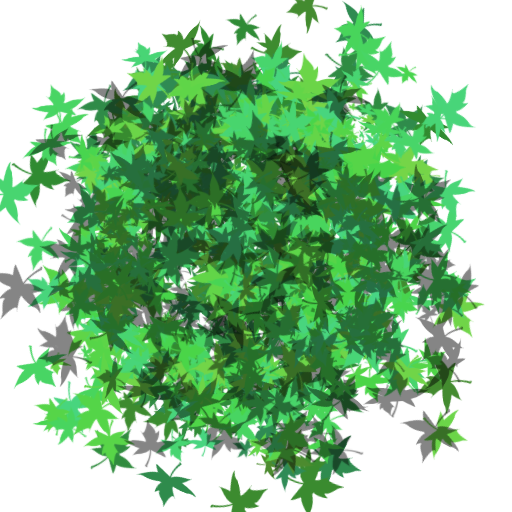
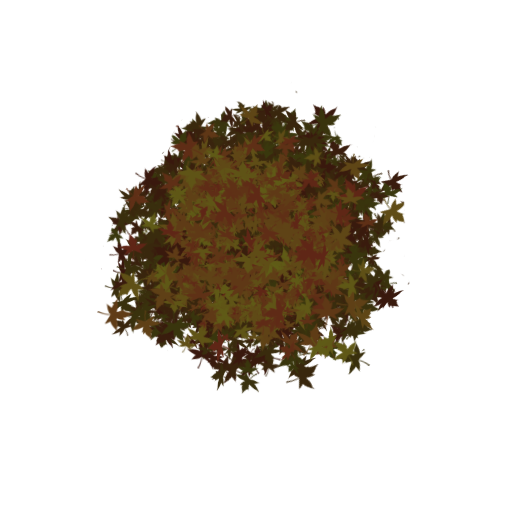
Trees 4.0
living trees have 3 variations of green leaves
dying trees have 3 variations of brown ones

diff --git a/src/math/tree_generator.h b/src/math/tree_generator.h
@@ -21,7 +21,7 @@ namespace octet
 
 		//Declare all variables here
 		int iterations, masterIterations, maxIterations, ignoreSize, numberOfBranches, branchSubSections;
-		float height, width, depth, branchRadius, angle, leafWidth, scale;
+		float height, width, depth, branchRadius, angle, leafWidth, scale, leafTexture;
 		string originalAxiom, ignore;
 		bool done;
 
@@ -69,10 +69,10 @@ namespace octet
 			glGenBuffers(1, &nbo);
 			glGenBuffers(1, &cbo);
 
-			GLuint textures[2];
+			GLuint textures[7];
 			//yoloswaggins
 			//Generate a buffer for the bark texture
-			glGenTextures(2, textures);
+			glGenTextures(7, textures);
 			glEnable(GL_TEXTURE_2D);
 			glActiveTexture(GL_TEXTURE0);
 			glBindTexture(GL_TEXTURE_2D, textures[0]);
@@ -88,10 +88,79 @@ namespace octet
 			glTexParameteri(GL_TEXTURE_2D, GL_TEXTURE_MIN_FILTER, GL_LINEAR);
 			glTexParameteri(GL_TEXTURE_2D, GL_TEXTURE_MAG_FILTER, GL_LINEAR);
 
+			//Alive leaves
+
 			glActiveTexture(GL_TEXTURE1);
 			glBindTexture(GL_TEXTURE_2D, textures[1]);
 
-			image = SOIL_load_image("../../assets/thronecraft/leafs.png", &width, &height, 0, SOIL_LOAD_RGBA);
+			image = SOIL_load_image("../../assets/thronecraft/leaf0.png", &width, &height, 0, SOIL_LOAD_RGBA);
+			glTexImage2D(GL_TEXTURE_2D, 0, GL_RGBA, width, height, 0, GL_RGBA, GL_UNSIGNED_BYTE, image);
+
+			SOIL_free_image_data(image);
+
+			glTexParameteri(GL_TEXTURE_2D, GL_TEXTURE_WRAP_S, GL_MIRRORED_REPEAT);
+			glTexParameteri(GL_TEXTURE_2D, GL_TEXTURE_WRAP_T, GL_MIRRORED_REPEAT);
+			glTexParameteri(GL_TEXTURE_2D, GL_TEXTURE_MIN_FILTER, GL_LINEAR);
+			glTexParameteri(GL_TEXTURE_2D, GL_TEXTURE_MAG_FILTER, GL_LINEAR);
+
+			glActiveTexture(GL_TEXTURE2);
+			glBindTexture(GL_TEXTURE_2D, textures[2]);
+
+			image = SOIL_load_image("../../assets/thronecraft/leaf1.png", &width, &height, 0, SOIL_LOAD_RGBA);
+			glTexImage2D(GL_TEXTURE_2D, 0, GL_RGBA, width, height, 0, GL_RGBA, GL_UNSIGNED_BYTE, image);
+
+			SOIL_free_image_data(image);
+
+			glTexParameteri(GL_TEXTURE_2D, GL_TEXTURE_WRAP_S, GL_MIRRORED_REPEAT);
+			glTexParameteri(GL_TEXTURE_2D, GL_TEXTURE_WRAP_T, GL_MIRRORED_REPEAT);
+			glTexParameteri(GL_TEXTURE_2D, GL_TEXTURE_MIN_FILTER, GL_LINEAR);
+			glTexParameteri(GL_TEXTURE_2D, GL_TEXTURE_MAG_FILTER, GL_LINEAR);
+
+			glActiveTexture(GL_TEXTURE3);
+			glBindTexture(GL_TEXTURE_2D, textures[3]);
+
+			image = SOIL_load_image("../../assets/thronecraft/leaf2.png", &width, &height, 0, SOIL_LOAD_RGBA);
+			glTexImage2D(GL_TEXTURE_2D, 0, GL_RGBA, width, height, 0, GL_RGBA, GL_UNSIGNED_BYTE, image);
+
+			SOIL_free_image_data(image);
+
+			glTexParameteri(GL_TEXTURE_2D, GL_TEXTURE_WRAP_S, GL_MIRRORED_REPEAT);
+			glTexParameteri(GL_TEXTURE_2D, GL_TEXTURE_WRAP_T, GL_MIRRORED_REPEAT);
+			glTexParameteri(GL_TEXTURE_2D, GL_TEXTURE_MIN_FILTER, GL_LINEAR);
+			glTexParameteri(GL_TEXTURE_2D, GL_TEXTURE_MAG_FILTER, GL_LINEAR);
+
+			//Dead leaves
+
+			glActiveTexture(GL_TEXTURE4);
+			glBindTexture(GL_TEXTURE_2D, textures[4]);
+
+			image = SOIL_load_image("../../assets/thronecraft/leaf3.png", &width, &height, 0, SOIL_LOAD_RGBA);
+			glTexImage2D(GL_TEXTURE_2D, 0, GL_RGBA, width, height, 0, GL_RGBA, GL_UNSIGNED_BYTE, image);
+
+			SOIL_free_image_data(image);
+
+			glTexParameteri(GL_TEXTURE_2D, GL_TEXTURE_WRAP_S, GL_MIRRORED_REPEAT);
+			glTexParameteri(GL_TEXTURE_2D, GL_TEXTURE_WRAP_T, GL_MIRRORED_REPEAT);
+			glTexParameteri(GL_TEXTURE_2D, GL_TEXTURE_MIN_FILTER, GL_LINEAR);
+			glTexParameteri(GL_TEXTURE_2D, GL_TEXTURE_MAG_FILTER, GL_LINEAR);
+
+			glActiveTexture(GL_TEXTURE5);
+			glBindTexture(GL_TEXTURE_2D, textures[5]);
+
+			image = SOIL_load_image("../../assets/thronecraft/leaf4.png", &width, &height, 0, SOIL_LOAD_RGBA);
+			glTexImage2D(GL_TEXTURE_2D, 0, GL_RGBA, width, height, 0, GL_RGBA, GL_UNSIGNED_BYTE, image);
+
+			SOIL_free_image_data(image);
+
+			glTexParameteri(GL_TEXTURE_2D, GL_TEXTURE_WRAP_S, GL_MIRRORED_REPEAT);
+			glTexParameteri(GL_TEXTURE_2D, GL_TEXTURE_WRAP_T, GL_MIRRORED_REPEAT);
+			glTexParameteri(GL_TEXTURE_2D, GL_TEXTURE_MIN_FILTER, GL_LINEAR);
+			glTexParameteri(GL_TEXTURE_2D, GL_TEXTURE_MAG_FILTER, GL_LINEAR);
+
+			glActiveTexture(GL_TEXTURE6);
+			glBindTexture(GL_TEXTURE_2D, textures[6]);
+
+			image = SOIL_load_image("../../assets/thronecraft/leaf5.png", &width, &height, 0, SOIL_LOAD_RGBA);
 			glTexImage2D(GL_TEXTURE_2D, 0, GL_RGBA, width, height, 0, GL_RGBA, GL_UNSIGNED_BYTE, image);
 
 			SOIL_free_image_data(image);
@@ -724,17 +793,21 @@ namespace octet
 			scaleMat[1][1] = scale;
 			scaleMat[2][2] = scale;
 
+			leafColor = vec4(1.0f, 1.0f, 1.0f, 1.0f);
+
 			if (treeType > dead)
 			{
 				if (treeType == dying)
 				{
 					barkColor = vec4(0.75f, 0.75f, 0.75f, 1.0f);
-					leafColor = vec4(0.9f, 0.3f, 0.0f, 1.0f);
+					//use (leaf) textures 4-7
+					leafTexture = (float)(rand() % 3 + 4) ;
 				}
 				else
 				{
 					barkColor = vec4(1.0f, 1.0f, 1.0f, 1.0f);
-					leafColor = vec4(1.0f, 1.0f, 1.0f, 1.0f);
+					//use (leaf) textures 1-3
+					leafTexture = (float)(rand() % 3 + 1);
 				}
 			}
 
@@ -826,7 +899,7 @@ namespace octet
 						vertices.push_back(vert1.x());
 						vertices.push_back(vert1.y());
 						vertices.push_back(vert1.z());
-						vertices.push_back(vert1.w());
+						vertices.push_back(0.0f);
 
 						texCoords.push_back(0);
 						texCoords.push_back(0);
@@ -839,7 +912,7 @@ namespace octet
 						vertices.push_back(vert2.x());
 						vertices.push_back(vert2.y());
 						vertices.push_back(vert2.z());
-						vertices.push_back(vert2.w());
+						vertices.push_back(0.0f);
 
 						texCoords.push_back(0);
 						texCoords.push_back(1);
@@ -852,7 +925,7 @@ namespace octet
 						vertices.push_back(vert3.x());
 						vertices.push_back(vert3.y());
 						vertices.push_back(vert3.z());
-						vertices.push_back(vert3.w());
+						vertices.push_back(0.0f);
 
 						texCoords.push_back(1);
 						texCoords.push_back(1);
@@ -865,7 +938,7 @@ namespace octet
 						vertices.push_back(vert4.x());
 						vertices.push_back(vert4.y());
 						vertices.push_back(vert4.z());
-						vertices.push_back(vert4.w());
+						vertices.push_back(0.0f);
 
 						texCoords.push_back(0);
 						texCoords.push_back(1);
@@ -878,7 +951,7 @@ namespace octet
 						vertices.push_back(vert5.x());
 						vertices.push_back(vert5.y());
 						vertices.push_back(vert5.z());
-						vertices.push_back(vert5.w());
+						vertices.push_back(0.0f);
 
 						texCoords.push_back(1);
 						texCoords.push_back(1);
@@ -891,7 +964,7 @@ namespace octet
 						vertices.push_back(vert6.x());
 						vertices.push_back(vert6.y());
 						vertices.push_back(vert6.z());
-						vertices.push_back(vert6.w());
+						vertices.push_back(0.0f);
 
 						texCoords.push_back(1);
 						texCoords.push_back(0);
@@ -966,7 +1039,7 @@ namespace octet
 							vertices.push_back(leafVert.x());
 							vertices.push_back(leafVert.y());
 							vertices.push_back(leafVert.z());
-							vertices.push_back(2.0f);
+							vertices.push_back(leafTexture);
 
 							texCoords.push_back(0);
 							texCoords.push_back(0);
@@ -990,7 +1063,7 @@ namespace octet
 							vertices.push_back(leafVert.x());
 							vertices.push_back(leafVert.y());
 							vertices.push_back(leafVert.z());
-							vertices.push_back(2.0f);
+							vertices.push_back(leafTexture);
 
 							texCoords.push_back(0);
 							texCoords.push_back(1);
@@ -1014,7 +1087,7 @@ namespace octet
 							vertices.push_back(leafVert.x());
 							vertices.push_back(leafVert.y());
 							vertices.push_back(leafVert.z());
-							vertices.push_back(2.0f);
+							vertices.push_back(leafTexture);
 
 							texCoords.push_back(1);
 							texCoords.push_back(1);
@@ -1038,7 +1111,7 @@ namespace octet
 							vertices.push_back(leafVert.x());
 							vertices.push_back(leafVert.y());
 							vertices.push_back(leafVert.z());
-							vertices.push_back(2.0f);
+							vertices.push_back(leafTexture);
 
 							texCoords.push_back(0);
 							texCoords.push_back(0);
@@ -1062,7 +1135,7 @@ namespace octet
 							vertices.push_back(leafVert.x());
 							vertices.push_back(leafVert.y());
 							vertices.push_back(leafVert.z());
-							vertices.push_back(2.0f);
+							vertices.push_back(leafTexture);
 
 							texCoords.push_back(1);
 							texCoords.push_back(1);
@@ -1086,7 +1159,7 @@ namespace octet
 							vertices.push_back(leafVert.x());
 							vertices.push_back(leafVert.y());
 							vertices.push_back(leafVert.z());
-							vertices.push_back(2.0f);
+							vertices.push_back(leafTexture);
 
 							texCoords.push_back(1);
 							texCoords.push_back(0);

diff --git a/src/shaders/tree_shader.h b/src/shaders/tree_shader.h
@@ -1,7 +1,8 @@
 namespace octet {
   class tree_shader : public shader 
 	{
-    GLuint modelToProjectionIndex_, uniform_texture0, uniform_texture1, uniform_ambient, uniform_diffuse, uniform_light, uniform_numOfLights;
+    GLuint modelToProjectionIndex_, uniform_ambient, uniform_diffuse, uniform_light, uniform_numOfLights;
+	GLuint uniform_texture0, uniform_texture1, uniform_texture2, uniform_texture3, uniform_texture4, uniform_texture5, uniform_texture6;
 
   public:
     void init() 
@@ -55,16 +56,56 @@ namespace octet {
 			varying vec4 f_color;
 			
 			uniform sampler2D bark;
-			uniform sampler2D leaf;
+			uniform sampler2D leaf0;
+			uniform sampler2D leaf1;
+			uniform sampler2D leaf2;
+			uniform sampler2D leaf3;
+			uniform sampler2D leaf4;
+			uniform sampler2D leaf5;
 			
 			void main()
 			{
-				if (texType < 1.5)
+				if (texType == 0.0)
 					gl_FragColor = texture2D(bark, f_texCoord) * f_color;
-				else
+				else if (texType == 1.0)
 				{
-					if (texture2D(leaf, f_texCoord).a > 0.5)
-						gl_FragColor = texture2D(leaf, f_texCoord) * f_color;
+					if (texture2D(leaf0, f_texCoord).a > 0.5)
+						gl_FragColor = texture2D(leaf0, f_texCoord) * f_color;
+					else
+						discard;
+				}
+				else if (texType == 2.0)
+				{
+					if (texture2D(leaf1, f_texCoord).a > 0.5)
+						gl_FragColor = texture2D(leaf1, f_texCoord) * f_color;
+					else
+						discard;
+				}
+				else if (texType == 3.0)
+				{
+					if (texture2D(leaf2, f_texCoord).a > 0.5)
+						gl_FragColor = texture2D(leaf2, f_texCoord) * f_color;
+					else
+						discard;
+				}
+				else if (texType == 4.0)
+				{
+					if (texture2D(leaf3, f_texCoord).a > 0.5)
+						gl_FragColor = texture2D(leaf3, f_texCoord) * f_color;
+					else
+						discard;
+				}
+				else if (texType == 5.0)
+				{
+					if (texture2D(leaf4, f_texCoord).a > 0.5)
+						gl_FragColor = texture2D(leaf4, f_texCoord) * f_color;
+					else
+						discard;
+				}
+				else if (texType == 6.0)
+				{
+					if (texture2D(leaf5, f_texCoord).a > 0.5)
+						gl_FragColor = texture2D(leaf5, f_texCoord) * f_color;
 					else
 						discard;
 				}
@@ -75,7 +116,12 @@ namespace octet {
 
       modelToProjectionIndex_ = glGetUniformLocation(program(), "matrix");
 	  uniform_texture0 = glGetUniformLocation(program(), "bark");
-	  uniform_texture1 = glGetUniformLocation(program(), "leaf");
+	  uniform_texture1 = glGetUniformLocation(program(), "leaf0");
+	  uniform_texture2 = glGetUniformLocation(program(), "leaf1");
+	  uniform_texture3 = glGetUniformLocation(program(), "leaf2");
+	  uniform_texture4 = glGetUniformLocation(program(), "leaf3");
+	  uniform_texture5 = glGetUniformLocation(program(), "leaf4");
+	  uniform_texture6 = glGetUniformLocation(program(), "leaf5");
 	  uniform_ambient = glGetUniformLocation(program(), "ambient");
 	  uniform_diffuse = glGetUniformLocation(program(), "diffuse");
 	  uniform_light = glGetUniformLocation(program(), "light");
@@ -109,6 +155,11 @@ namespace octet {
 		glUniformMatrix4fv( modelToProjectionIndex_, 1, GL_FALSE, modelToWorld.get() );
 		glUniform1i( uniform_texture0, 0 );
 		glUniform1i( uniform_texture1, 1 );
+		glUniform1i( uniform_texture2, 2 );
+		glUniform1i( uniform_texture3, 3 );
+		glUniform1i( uniform_texture4, 4 );
+		glUniform1i( uniform_texture5, 5 );
+		glUniform1i( uniform_texture6, 6 );
 		glUniform4f( uniform_ambient, ambient.x, ambient.y, ambient.z, ambient.w );
 		glUniform4fv( uniform_diffuse, numOfLights, (float*)diffuse );
 		glUniform4fv( uniform_light, numOfLights, (float*)light_information );

diff --git a/src/examples/layer2/thronecraft/ThroneCraft.h b/src/examples/layer2/thronecraft/ThroneCraft.h
@@ -186,7 +186,7 @@ namespace octet
 							c->set(x, i, z, stone);
 					}
 
-					int r = rand() % 150;
+					int r = rand() % 500;
 
 					if (r == 1 && y <= 100)
 					{
